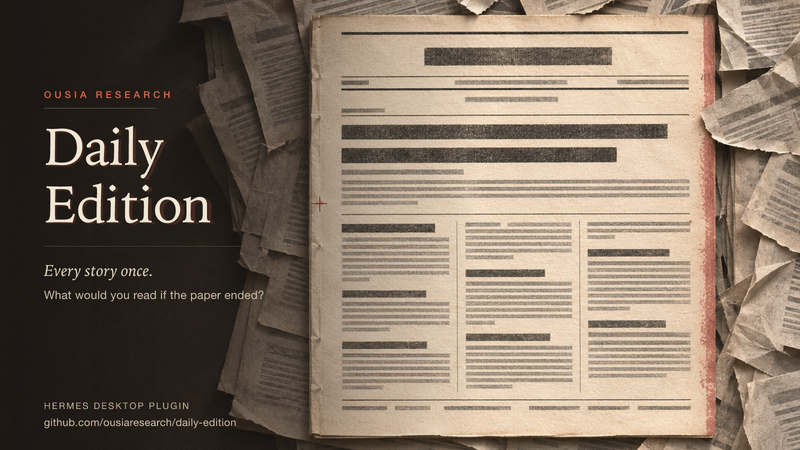
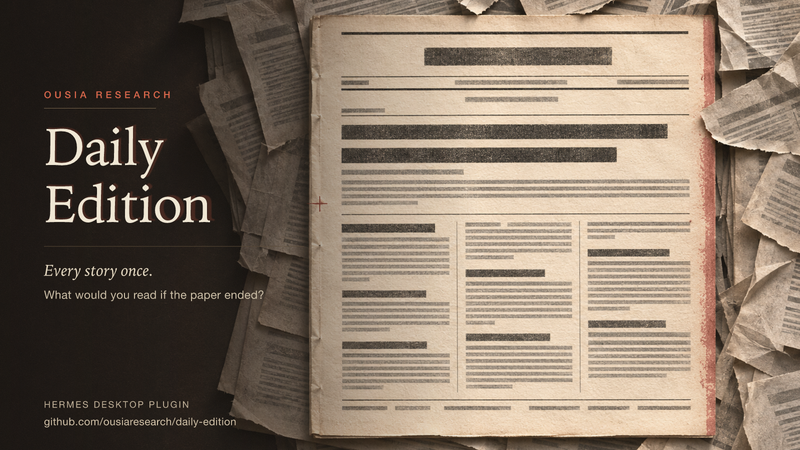
0.4.7: read the styling key through agent.secret_scope (catalog rule 11); add the 2:1 catalog card

diff --git a/docs/hero/build.py b/docs/hero/build.py
@@ -2,19 +2,22 @@
 """Compose the Daily Edition hero: a generated print still life plus vector typography.
 
 Route (a) of the branded-card procedure: the raster carries the argument with no legible text, and
-every word is vector type laid over it with the print's own defect echoed (a second plate landing a
+every word is vector type laid over it, with the print's own defect echoed (a second plate landing a
 hair off) so the type reads as printed rather than pasted.
 
-    python3.14 docs/hero/build.py [--background PATH] [--out PATH]
+Two canvases come out of one brief:
 
-Sources kept beside the output: `prompt.txt` (the generation brief), this script, and `hero.svg`
-(written on every run).
+    1600x900   16:9  README hero
+    1600x800    2:1  catalog card (the entry's `image:` field is specified at 2:1)
+
+    python3.14 docs/hero/build.py [--background PATH]
+
+Sources kept beside the output: `prompt.txt` (the generation brief) and this script.
 """
 
 import argparse
 import base64
 import pathlib
-import re
 import sys
 
 import resvg_py
@@ -23,14 +26,19 @@ from PIL import Image
 HERE = pathlib.Path(__file__).resolve().parent
 REPO = HERE.parent.parent
 
-W, H = 1600, 900
 ZOOM = 1.08
 CREAM = '#F0E7D4'
 BODY = '#E2D6BF'
-MUTED = '#BCAC94'
 VERMILION = '#C4553C'
 SERIF = "'Iowan Old Style', 'Palatino Linotype', Palatino, Baskerville, 'Times New Roman', serif"
 SANS = "'Helvetica Neue', Helvetica, Arial, sans-serif"
+
+# Vertical anchors as a fraction of the canvas height, so one composition serves both ratios.
+ANCHORS = {
+    'label': 0.218, 'rule1': 0.240, 'display1': 0.367, 'display2': 0.494,
+    'rule2': 0.547, 'phrase': 0.613, 'question': 0.664,
+    'foot1': 0.906, 'foot2': 0.945,
+}
 
 COPY = {
     'label': 'OUSIA RESEARCH',
@@ -69,13 +77,16 @@ def press(source: pathlib.Path) -> pathlib.Path:
 
 
 def esc(text: str) -> str:
-    return (text.replace('&', '&amp;').replace('<', '&lt;').replace('>', '&gt;'))
+    return text.replace('&', '&amp;').replace('<', '&lt;').replace('>', '&gt;')
 
 
-def svg(background: pathlib.Path) -> str:
-    label, name, phrase = COPY['label'], COPY['name'], COPY['phrase']
+def svg(background: pathlib.Path, width: int, height: int) -> str:
+    k = height / 900.0                      # type scales with the canvas
+    a = {name: round(f * height, 1) for name, f in ANCHORS.items()}
+    label, name_lines, phrase = COPY['label'], COPY['name'], COPY['phrase']
     question, footer = COPY['question'], COPY['footer']
-    return f"""<svg xmlns="http://www.w3.org/2000/svg" width="{W}" height="{H}" viewBox="0 0 {W} {H}">
+    display = round(104 * k, 1)
+    return f"""<svg xmlns="http://www.w3.org/2000/svg" width="{width}" height="{height}" viewBox="0 0 {width} {height}">
   <defs>
     <linearGradient id="scrim" x1="0" y1="0" x2="1" y2="0">
       <stop offset="0" stop-color="#120E0B" stop-opacity="0.80"/>
@@ -93,51 +104,64 @@ def svg(background: pathlib.Path) -> str:
     </filter>
   </defs>
 
-  <image href="{data_uri(background)}" x="{-(W * (ZOOM - 1) / 2) - 18:.1f}" y="{-(H * (ZOOM - 1) / 2):.1f}"
-         width="{W * ZOOM:.1f}" height="{H * ZOOM:.1f}" preserveAspectRatio="xMidYMid slice"/>
-  <rect x="0" y="0" width="{W}" height="{H}" fill="url(#scrim)"/>
-  <rect x="0" y="0" width="{W}" height="{H}" filter="url(#grain)" opacity="0.55"/>
+  <image href="{data_uri(background)}" x="{-(width * (ZOOM - 1) / 2) - 18:.1f}" y="{-(height * (ZOOM - 1) / 2):.1f}"
+         width="{width * ZOOM:.1f}" height="{height * ZOOM:.1f}" preserveAspectRatio="xMidYMid slice"/>
+  <rect x="0" y="0" width="{width}" height="{height}" fill="url(#scrim)"/>
+  <rect x="0" y="0" width="{width}" height="{height}" filter="url(#grain)" opacity="0.55"/>
 
   <g font-family="{SANS}">
-    <text x="88" y="196" fill="#D8664A" font-size="19" letter-spacing="6.6"
+    <text x="88" y="{a['label']}" fill="#D8664A" font-size="{round(19 * k, 1)}" letter-spacing="{round(6.6 * k, 2)}"
           font-weight="500">{esc(label)}</text>
-    <rect x="88" y="216" width="224" height="1" fill="#8A7355" opacity="0.8"/>
+    <rect x="88" y="{a['rule1']}" width="{round(224 * k, 1)}" height="1" fill="#8A7355" opacity="0.8"/>
   </g>
 
   <!-- the second plate: the same words in vermilion, a hair off, as a second print pass -->
-  <g font-family="{SERIF}" font-size="104" fill="{VERMILION}" opacity="0.22" filter="url(#soften)">
-    <text x="91" y="333">{esc(name[0])}</text>
-    <text x="91" y="448">{esc(name[1])}</text>
+  <g font-family="{SERIF}" font-size="{display}" fill="{VERMILION}" opacity="0.22" filter="url(#soften)">
+    <text x="91" y="{round(a['display1'] - 3 * k, 1)}">{esc(name_lines[0])}</text>
+    <text x="91" y="{round(a['display2'] - 3 * k, 1)}">{esc(name_lines[1])}</text>
   </g>
-  <g font-family="{SERIF}" font-size="104" fill="{CREAM}" letter-spacing="-1">
-    <text x="88" y="330">{esc(name[0])}</text>
-    <text x="88" y="445">{esc(name[1])}</text>
-  </g>
-
-  <rect x="88" y="492" width="520" height="1" fill="#5A4A36" opacity="0.9"/>
-
-  <g font-family="{SERIF}" font-size="33" font-style="italic" fill="{BODY}">
-    <text x="88" y="552">{esc(phrase)}</text>
-  </g>
-  <g font-family="{SANS}" font-size="23" fill="#CBBEA6" letter-spacing="0.4">
-    <text x="88" y="598">{esc(question)}</text>
+  <g font-family="{SERIF}" font-size="{display}" fill="{CREAM}" letter-spacing="-1">
+    <text x="88" y="{a['display1']}">{esc(name_lines[0])}</text>
+    <text x="88" y="{a['display2']}">{esc(name_lines[1])}</text>
   </g>
 
-  <g font-family="{SANS}" fill="#C4B49B" letter-spacing="2.8">
-    <text x="88" y="818" font-size="18">{esc(footer[0])}</text>
-    <text x="88" y="852" letter-spacing="0.5" font-size="21" fill="#D2C2A8">{esc(footer[1])}</text>
+  <rect x="88" y="{a['rule2']}" width="{round(520 * k, 1)}" height="1" fill="#5A4A36" opacity="0.9"/>
+
+  <g font-family="{SERIF}" font-size="{round(33 * k, 1)}" font-style="italic" fill="{BODY}">
+    <text x="88" y="{a['phrase']}">{esc(phrase)}</text>
+  </g>
+  <g font-family="{SANS}" font-size="{round(23 * k, 1)}" fill="#CBBEA6" letter-spacing="0.4">
+    <text x="88" y="{a['question']}">{esc(question)}</text>
+  </g>
+
+  <g font-family="{SANS}" fill="#C4B49B" letter-spacing="{round(2.8 * k, 2)}">
+    <text x="88" y="{a['foot1']}" font-size="{round(18 * k, 1)}">{esc(footer[0])}</text>
+    <text x="88" y="{a['foot2']}" letter-spacing="0.5" font-size="{round(21 * k, 1)}" fill="#D2C2A8">{esc(footer[1])}</text>
   </g>
 
   <!-- one grain field over everything, so the vector type shares the print's surface -->
-  <rect x="0" y="0" width="{W}" height="{H}" filter="url(#grain)" opacity="0.16"/>
+  <rect x="0" y="0" width="{width}" height="{height}" filter="url(#grain)" opacity="0.16"/>
 </svg>
 """
+
+
+def render(background: pathlib.Path, out: pathlib.Path, width: int, height: int) -> None:
+    source = svg(background, width, height)
+    png = bytes(resvg_py.svg_to_bytes(svg_string=source, width=width, height=height))
+    out.parent.mkdir(parents=True, exist_ok=True)
+    out.write_bytes(png)
+    jpg = out.with_suffix('.jpg')
+    Image.open(out).convert('RGB').save(jpg, quality=93, optimize=True, progressive=True)
+    proof = out.with_name(out.stem + '-feed.png')
+    Image.open(out).convert('RGB').resize(
+        (width // 2, height // 2), Image.Resampling.LANCZOS).save(proof)
+    print(f'{out.name} ({len(png) // 1024} KiB, {width}x{height}) · {jpg.name} '
+          f'({jpg.stat().st_size // 1024} KiB) · {proof.name}')
 
 
 def main() -> int:
     parser = argparse.ArgumentParser()
     parser.add_argument('--background', default=str(HERE / 'background-v1.png'))
-    parser.add_argument('--out', default=str(REPO / 'docs' / 'images' / 'hero.png'))
     args = parser.parse_args()
 
     background = pathlib.Path(args.background)
@@ -146,23 +170,9 @@ def main() -> int:
         return 1
     background = press(background)
 
-    source = svg(background).encode('utf-8')
-    (HERE / 'hero.svg').write_bytes(source)
-    png = bytes(resvg_py.svg_to_bytes(svg_string=source.decode('utf-8'), width=W, height=H))
-    out = pathlib.Path(args.out)
-    out.parent.mkdir(parents=True, exist_ok=True)
-    out.write_bytes(png)
-
-    # a lighter copy for the README; the PNG stays the master
-    jpg = out.with_suffix('.jpg')
-    Image.open(out).convert('RGB').save(jpg, quality=93, optimize=True, progressive=True)
-
-    # feed-scale proof: what the card actually looks like in a timeline
-    proof = out.with_name(out.stem + '-feed.png')
-    Image.open(out).convert('RGB').resize((800, 450), Image.Resampling.LANCZOS).save(proof)
-    print(f'{out} ({len(png) // 1024} KiB, {W}x{H})')
-    print(f'{jpg} ({jpg.stat().st_size // 1024} KiB)')
-    print(f'{proof} (800x450 feed proof)')
+    images = REPO / 'docs' / 'images'
+    render(background, images / 'hero.png', 1600, 900)        # README hero, 16:9
+    render(background, images / 'hero-card.png', 1600, 800)   # catalog card, 2:1
     return 0
 
 

diff --git a/tests/test_model_client.py b/tests/test_model_client.py
@@ -1,4 +1,5 @@
 import unittest
+from unittest.mock import patch
 from pathlib import Path
 import sys
 
@@ -40,6 +41,34 @@ class ModelClientTests(unittest.TestCase):
         settings = model_client.settings({'DAILY_EDITION_BASE_URL': 'https://tokenharbor.ai/v1', 'DAILY_EDITION_MODEL': 'x'})
         self.assertFalse(settings['configured'])
         self.assertIn('DAILY_EDITION_API_KEY', settings['error'])
+
+    def test_a_scoped_secret_wins_over_the_environment(self):
+        """Catalog rule 11: the profile secret scope is the route, not a bare env read."""
+        import sys, types
+        fake = types.ModuleType('agent.secret_scope')
+        fake.get_secret = lambda name, default=None: 'scoped_key' if name == 'DAILY_EDITION_API_KEY' else default
+        fake.is_multiplex_active = lambda: True
+        pkg = types.ModuleType('agent')
+        pkg.secret_scope = fake
+        with patch.dict(sys.modules, {'agent': pkg, 'agent.secret_scope': fake}):
+            state = model_client.settings({'DAILY_EDITION_API_KEY': 'env_key',
+                                           'DAILY_EDITION_BASE_URL': 'https://example.invalid/v1'})
+        self.assertTrue(state['configured'])
+        self.assertNotIn('env_key', str(state))
+
+    def test_multiplexed_without_a_scoped_secret_fails_closed(self):
+        """An env value must never be used for another profile's secret under multiplexing."""
+        import sys, types
+        fake = types.ModuleType('agent.secret_scope')
+        fake.get_secret = lambda name, default=None: default
+        fake.is_multiplex_active = lambda: True
+        pkg = types.ModuleType('agent')
+        pkg.secret_scope = fake
+        with patch.dict(sys.modules, {'agent': pkg, 'agent.secret_scope': fake}):
+            state = model_client.settings({'DAILY_EDITION_API_KEY': 'another_profiles_key',
+                                           'DAILY_EDITION_BASE_URL': 'https://example.invalid/v1'})
+        self.assertFalse(state['configured'])
+        self.assertIn('DAILY_EDITION_API_KEY', state['error'])
 
     def test_key_can_come_from_a_named_variable(self):
         env = {'DAILY_EDITION_API_KEY': 'thk_supersecret_value', 'DAILY_EDITION_MODEL': 'm',

diff --git a/dashboard/model_client.py b/dashboard/model_client.py
@@ -36,9 +36,34 @@ def endpoint(base_url):
     return base + '/chat/completions'
 
 
+def _secret(name, env):
+    """Read a secret the way catalog rule 11 requires: through Hermes's profile secret scope first.
+
+    A bare environment read is not enough — under profile multiplexing the process environment can
+    carry another profile's value — so the scoped lookup wins, and if a scope is active but has no
+    value we fail closed rather than fall back to whatever the environment happens to hold. The
+    environment is still the path for a standalone run (tests, a direct call) where the plugin host
+    has already scrubbed it to the served profile.
+    """
+    from_env = str(env.get(name) or '').strip()
+    try:
+        from agent.secret_scope import get_secret, is_multiplex_active
+    except Exception:
+        return from_env
+    try:
+        scoped = get_secret(name)
+    except Exception:
+        scoped = None
+    if scoped:
+        return str(scoped).strip()
+    if is_multiplex_active():
+        return ''
+    return from_env
+
+
 def settings(env=None):
     env = dict(os.environ if env is None else env)
-    key = (env.get('DAILY_EDITION_API_KEY') or '').strip()
+    key = _secret('DAILY_EDITION_API_KEY', env)
     model = (env.get('DAILY_EDITION_MODEL') or DEFAULT_MODEL).strip()
     base = (env.get('DAILY_EDITION_BASE_URL') or '').strip()
     if not base:

diff --git a/CHANGELOG.md b/CHANGELOG.md
@@ -3,6 +3,17 @@
 All notable changes to Daily Edition. Versions follow the plugin manifest (`plugin.yaml`), which is
 kept in step with `dashboard/manifest.json` by a test.
 
+## 0.4.7 — 2026-11-06
+
+### Changed
+- **The styling key is read through Hermes, not from the environment.** `settings()` now asks
+  `agent.secret_scope.get_secret('DAILY_EDITION_API_KEY')` first and fails closed when a scope is
+  active but holds no value, because under profile multiplexing a bare `os.environ` read can pick up
+  another profile's key. This is catalog rule 11, and the previous code broke it.
+- A **2:1 hero card** (`docs/images/hero-card.png`/`.jpg`, 1600×800) for catalog listings, generated
+  from the same brief and script as the 16:9 README hero — the entry's `image:` field is specified at
+  2:1 and the 16:9 version would have been cropped.
+
 ## 0.4.6 — 2026-11-06
 
 ### Changed
